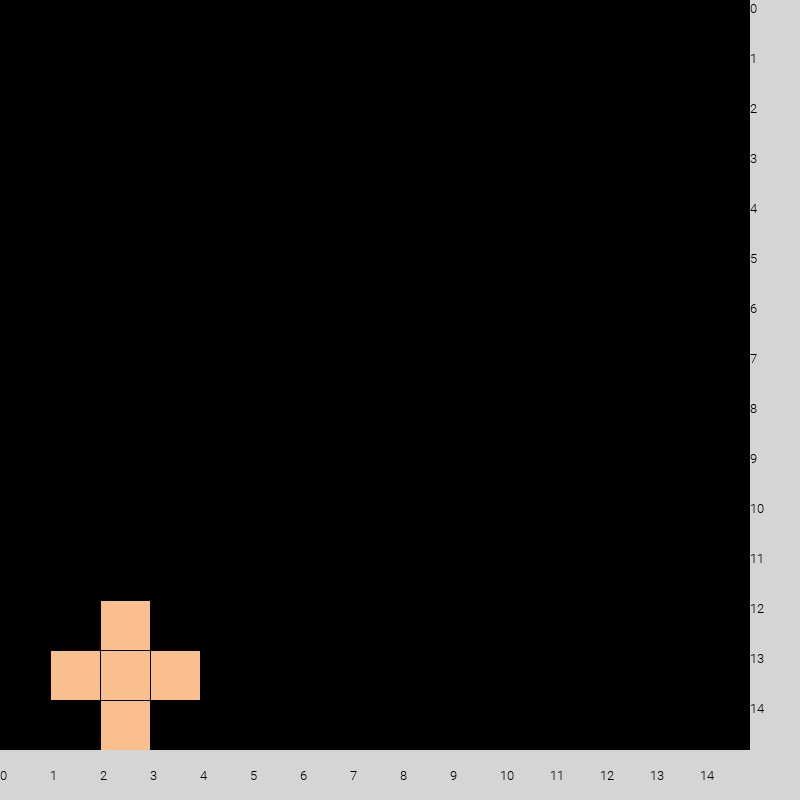
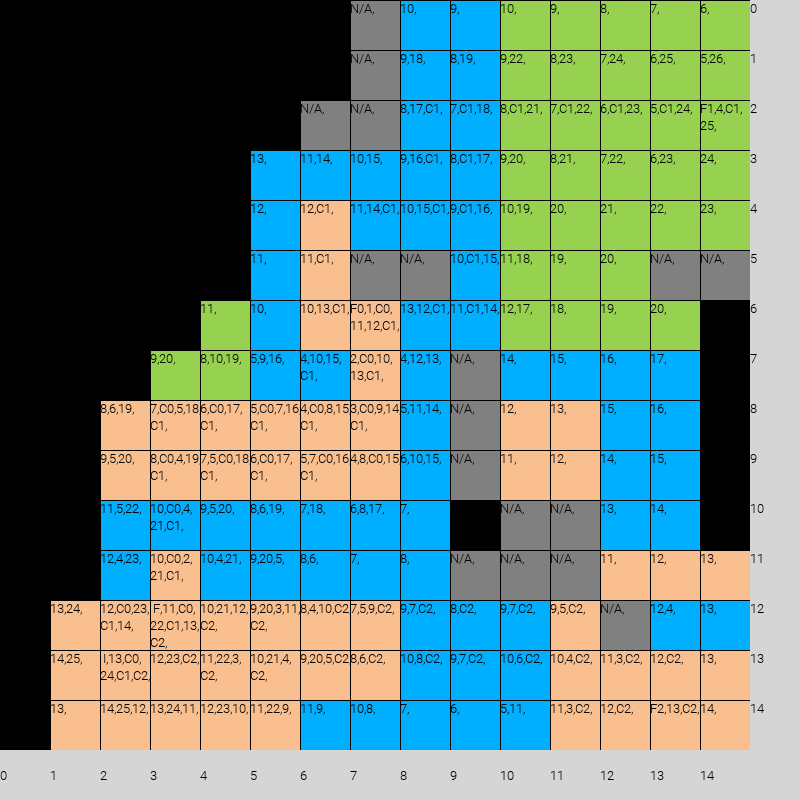
a* v2 falla con el mono c:

diff --git a/Proyecto 1/LibsGameV3/MazeAgentV3.2.py b/Proyecto 1/LibsGameV3/MazeAgentV3.2.py
@@ -210,7 +210,6 @@ class Movement:
         self.FinalCords = giveCords(FinalCords)
         if self.Hide:
             self.hideAllStage()
-            self.unHideActualPosition()
         self.stageToImage(self.Name)
 
     def upCord(self, coords=None):
@@ -277,7 +276,12 @@ class Agent(MovsTerrainCosts, Stage, Movement):  # Create the class Agent
         arrayResults = []
         for i, pre in enumerate(self.PreFinalCords):
             memory, cost, lastCoord = self.aStart(self.InitialCords, giveCords(pre), str(i))
-            memory, cost, lastCoord = self.aStart(lastCoord, self.FinalCords, str(i))
+            arrayResults.append(cost)
+            if not (self.TypeAgent == TypeAgent.mono and i == 1):
+                memory, cost, lastCoord = self.aStart(lastCoord, self.FinalCords, str(i))
+                arrayResults.append(cost)
+        return arrayResults
+
 
     ######################
     # scans and returns f (x), cost
@@ -358,11 +362,13 @@ class Agent(MovsTerrainCosts, Stage, Movement):  # Create the class Agent
     @staticmethod
     # create copies, the method branches memory
     def createCopies(RoadAndCostAccumulatedMemories, j, validRoads, costs):
+        # print(f"j={j}")
         copyMem = RoadAndCostAccumulatedMemories[j][::]  # Base Copy
         x = len(RoadAndCostAccumulatedMemories[j]) - 1  # last index memory
         for i, Road in enumerate(validRoads):
             # create value to insert
             var = (Road[0], Road[1], copyMem[x][2] + costs[i], costs[i])
+            # print(var)
             # if it is the first value, the modification is at the same index in memory
             if i == 0:
                 RoadAndCostAccumulatedMemories[j].append(var)
@@ -372,7 +378,7 @@ class Agent(MovsTerrainCosts, Stage, Movement):  # Create the class Agent
                 auxCopyMem.append(var)
                 RoadAndCostAccumulatedMemories.append(auxCopyMem)
 
-    def aStart(self, initialPoint, FinalPoint, identificador):
+    def aStart(self, initialPoint, FinalPoint, id):
         # [
         # [(f(x),coord,CostAccumulate,particularCost),(f(x),coord,CostAccumulate,particularCost)],
         # [(f(x),coord,CostAccumulate,particularCost),(f(x),coord,CostAccumulate,particularCost)],
@@ -412,11 +418,11 @@ class Agent(MovsTerrainCosts, Stage, Movement):  # Create the class Agent
                         # IF THE COST IS EQUAL TO THE COST OF EXPLORING, THEN YOU WILL EXPLORE THIS BRANCH WITHOUT
                         # EXPLORING THE OTHERS
                         # Detect if cost repeats, then change flag repeatDepth
-                        for indexToExplore in IndexesToExplore:
-                            LastIndex_Repeat = len(RoadAndCostAccumulatedMemories[indexToExplore]) - 1
-                            if validRoads[0][0] == RoadAndCostAccumulatedMemories[indexToExplore][LastIndex_Repeat][0]:
-                                repeatDepth = True
-                                break
+                        # for indexToExplore in IndexesToExplore:
+                        LastIndex_Repeat = len(RoadAndCostAccumulatedMemories[j]) - 1
+                        if validRoads[0][0] == RoadAndCostAccumulatedMemories[j][LastIndex_Repeat][0]:
+                            repeatDepth = True
+                            # break
                         # if repeatDepth  and actual value of memory repeat , create copies
                         if repeatDepth and validRoads[0][0] == RoadAndCostAccumulatedMemories[j][LastIndex][0]:
                             self.createCopies(RoadAndCostAccumulatedMemories, j, validRoads, costs)
@@ -443,10 +449,15 @@ class Agent(MovsTerrainCosts, Stage, Movement):  # Create the class Agent
                     IndexesToExplore.append(i)
             # if the indexes to be explored are 0, it breaks the cycle
             if len(IndexesToExplore) == 0:
-                print(RoadAndCostAccumulatedMemories)
+                # print(RoadAndCostAccumulatedMemories)
                 break
             #
             self.updateStage()
+            z += 1
+            # if z == 3:
+            # print(RoadAndCostAccumulatedMemories)
+            # return
+
         #######################################################################################
         # SEARCH IN THE ARRAY roadsComplete
         hypotheticalValue = roadsComplete[0]  # Suponemos que el camino es el menor
@@ -457,7 +468,7 @@ class Agent(MovsTerrainCosts, Stage, Movement):  # Create the class Agent
                 cost = finalRoad[len(finalRoad) - 1][2]
         memory = []
         for mem in hypotheticalValue:
-            self.addStageLetras(mem[1][0], mem[1][1], f"C{identificador}")
+            self.addStageLetras(mem[1][0], mem[1][1], f"C{id}")
             memory.append(mem[1])
         print("MazeSolved")
         self.updateStage()
@@ -557,12 +568,13 @@ agent2 = Agent("Octupus", TypeAgent.pulpo, initialCoords=OI, FinalCords=P,
                PreFinalCords=(T, S, K), stageText=readFile("../lab5.txt"), Hide=True)
 agent3 = Agent("Monkey", TypeAgent.mono, initialCoords=MI, FinalCords=P,
                PreFinalCords=(T, S, K), stageText=readFile("../lab5.txt"), Hide=True)
-# agent1.proyect()
-# agent2.proyect()
-# agent3.proyect()
+costHuman = agent1.proyect()
+CostOcutpus = agent2.proyect()
+CostMono = agent3.proyect()
 
-#agent3.aStart(giveCords(MI), giveCords(S), "1")
-agent3.aStart(giveCords(S), giveCords(P), "2")
+print(f"Human:{costHuman}")
+print(f"Octupus:{CostOcutpus}")
+print(f"Monkey:{CostMono}")
 
 # for x in range(3):
 #    print(CFA1[x], CFA2[x], CFA3[x])
